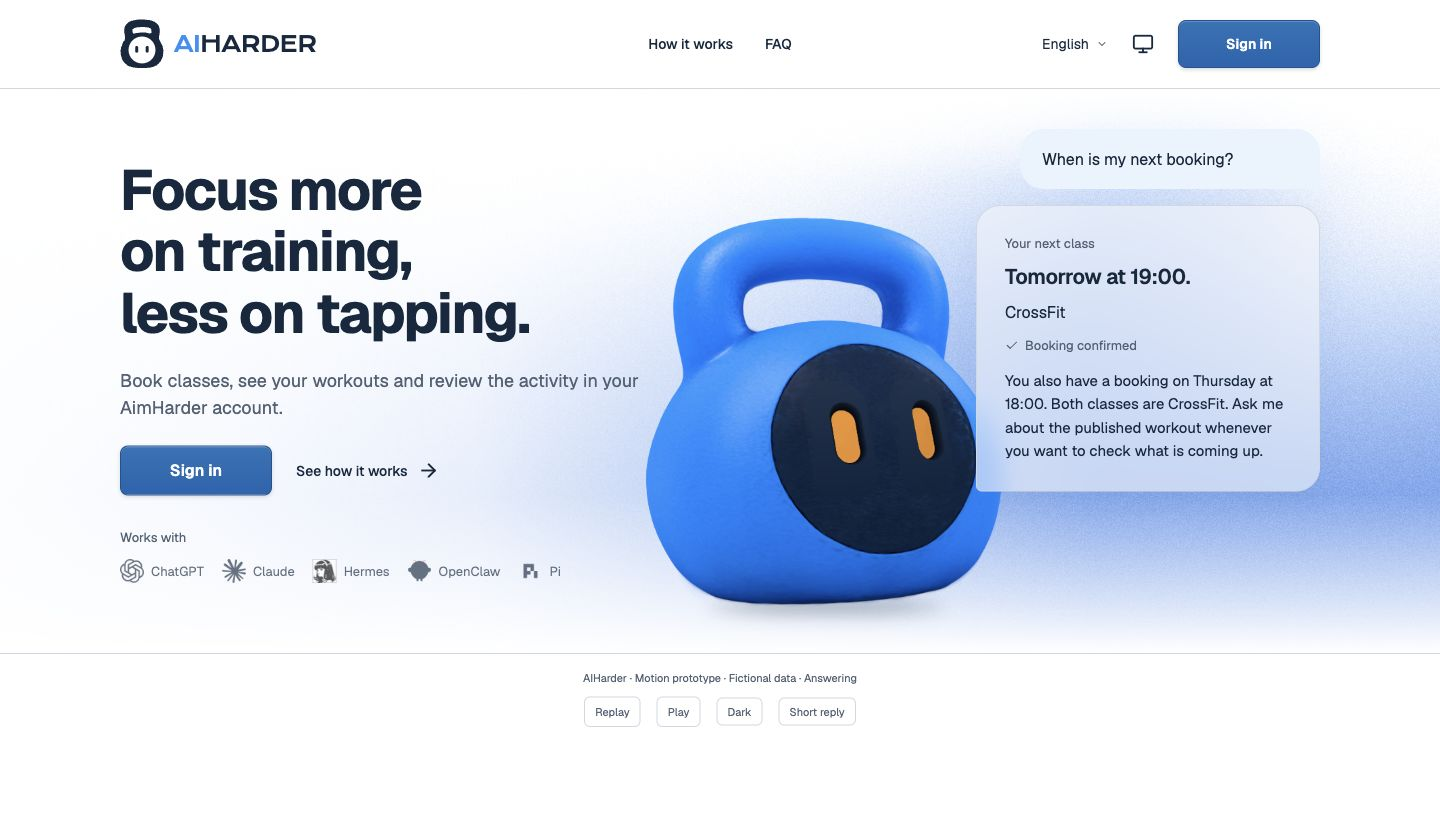
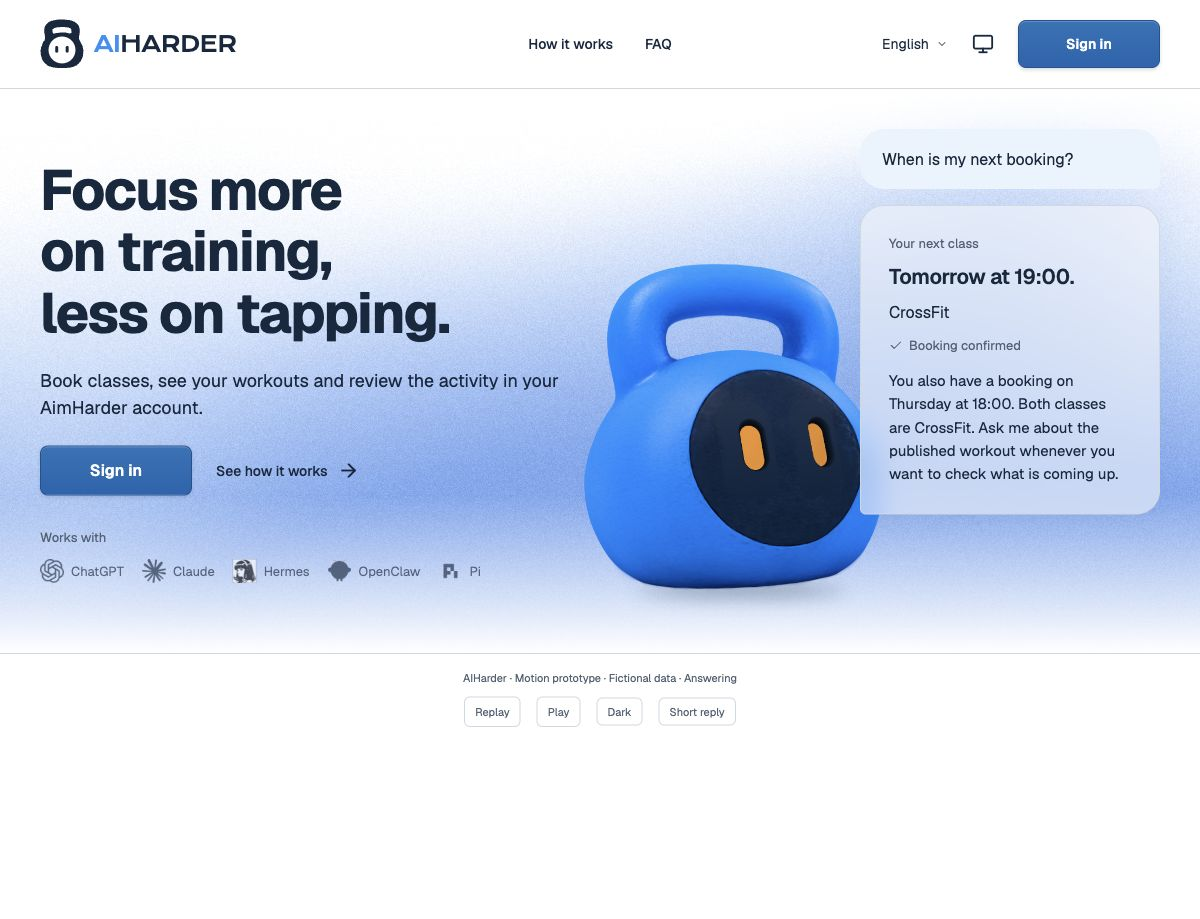
design: show Grainient across the full hero width

diff --git a/design/home-study/hero-motion-prototype.html b/design/home-study/hero-motion-prototype.html
@@ -6,4 +6,4 @@
 @media(max-width:1320px){.kettle{left:-60px;top:126px;width:300px;height:344px}.kettle img{width:435.13px;height:435.13px;left:-68px;top:-57.79px}.answer{width:300px}.ground{left:-8px;top:460px;width:210px}.ground::after{width:154px}}
 @media(max-width:1150px){.hero{grid-template-columns:46% 1fr;gap:40px}h1{font-size:50px}.brand{font-size:20px}.utilities{gap:16px}.nav{gap:24px}.question{width:270px}.answer{width:300px}.kettle{left:-70px}.apps{gap:12px}.app{font-size:12px;gap:5px}}
 @media(max-width:850px){.container{width:calc(100% - 40px)}.header-inner{grid-template-columns:1fr auto;min-height:80px}.nav{display:none}.utilities{gap:16px}.language{display:none}.hero{display:block;padding-top:28px}.pitch{max-width:532px}.scene{height:520px;margin:32px auto 0;max-width:596px}.kettle{left:0}.question{right:0}.answer{right:0}.apps{flex-wrap:wrap}h1{font-size:44px}.header-signin{min-width:100px;padding:12px 18px}.brand{font-size:17px}.brand img{width:35px;height:40px}}
[2 lines of base64/hex data omitted]

diff --git a/design/home-study/hero-graphic-still.html b/design/home-study/hero-graphic-still.html
@@ -6,4 +6,4 @@
 @media(max-width:1320px){.kettle{left:-60px;top:126px;width:300px;height:344px}.kettle img{width:435.13px;height:435.13px;left:-68px;top:-57.79px}.answer{width:300px}.ground{left:-8px;top:460px;width:210px}.ground::after{width:154px}}
 @media(max-width:1150px){.hero{grid-template-columns:46% 1fr;gap:40px}h1{font-size:50px}.brand{font-size:20px}.utilities{gap:16px}.nav{gap:24px}.question{width:270px}.answer{width:300px}.kettle{left:-70px}.apps{gap:12px}.app{font-size:12px;gap:5px}}
 @media(max-width:850px){.container{width:calc(100% - 40px)}.header-inner{grid-template-columns:1fr auto;min-height:80px}.nav{display:none}.utilities{gap:16px}.language{display:none}.hero{display:block;padding-top:28px}.pitch{max-width:532px}.scene{height:520px;margin:32px auto 0;max-width:596px}.kettle{left:0}.question{right:0}.answer{right:0}.apps{flex-wrap:wrap}h1{font-size:44px}.header-signin{min-width:100px;padding:12px 18px}.brand{font-size:17px}.brand img{width:35px;height:40px}}
[2 lines of base64/hex data omitted]

diff --git a/design/home-study/hero-surface-study.md b/design/home-study/hero-surface-study.md
@@ -9,7 +9,7 @@ The owner supplied a React Bits Grainient export and requested adapting it as th
 | Decision | Reference | Implementation |
 | --- | --- | --- |
 | Flowing blue/white grain | Owner's component export and [official Grainient](https://reactbits.dev/backgrounds/grainient) source | Adapt the supplied WebGL2 field/composite shaders to the existing HTML prototype, preserving the requested palette/settings without adding React dependencies. |
-| Text legibility | Existing AIHarder palette/type roles and the owner's hero | Apply a left-side background fade behind the pitch and top/bottom edge fades; retain readable foreground tokens. Dark uses the existing navy base with the same blue accent. |
+| Text legibility | Existing AIHarder palette/type roles and the owner's hero | Use the gradient across the complete hero width, including behind the pitch. Keep only top/bottom edge fades; retain readable foreground tokens. Dark uses the existing navy base with the same blue accent. |
 | Compact spacing | Owner's density request | Header minimum content height 120 → 88px; hero padding 72px top / 64px bottom → 32px each. The 1px header rule makes its measured total height 89px. Shared horizontal gutters stay aligned. |
 | Translucent reply | Owner's opacity request | Surface alpha 90% → 60% in both themes. Keep 12px backdrop blur, border, asymmetric corner and the established compact message stack. |
 | Flat header mark | Owner's explicit three-color construction, existing neutral kettle | Vectorize the existing alpha silhouette, including the handle hole. Use `#14283F`, a white face circle and navy rounded eyes. Dark adds a 0.5px-equivalent light keyline for separation while keeping those fills. |
@@ -21,7 +21,7 @@ The owner supplied a React Bits Grainient export and requested adapting it as th
 - [Flat SVG Light](assets/kettle-flat-light.svg) / [Dark](assets/kettle-flat-dark.svg), reproducible with [render-flat-mark.html](render-flat-mark.html). The exporter reads the unchanged neutral poster alpha at threshold 160, traces closed contours, simplifies at 1.4px and smooths the vector outline. No raster retouch, generated replacement mascot or manual silhouette drawing is used. Face/eye geometry is deliberately flat as requested.
 - [Background mount](hero-background-mount.js), [app-integrated renderer](grainient-background.js), [upstream notice/license](vendor/README.md).
 
-The requested values are retained: white / `#0065e0`, angle 180, flow 0.8, silk 0.5, grain 0.08, scale 1.4, grain size 1.3, saturation 0.99 and stir 0.95, with intro/click swirl disabled. Light mode is enabled only for Light; Dark uses `#0d1521` as its first color. Background layer opacity and foreground fades integrate these colors with the existing page instead of changing text/CTA roles.
+The requested values are retained: white / `#0065e0`, angle 180, flow 0.8, silk 0.5, grain 0.08, scale 1.4, grain size 1.3, saturation 0.99 and stir 0.95, with intro/click swirl disabled. Light mode is enabled only for Light; Dark uses `#0d1521` as its first color. Background layer opacity and vertical edge fades integrate these colors with the existing page instead of changing text/CTA roles.
 
 The background has one tracked render loop, stops when paused/hidden/offscreen, renders still for reduced motion or `motion=off`, caps DPR at 1, and limits scheduling to 30fps. These are implementation limits, not a measured device performance guarantee. The existing 3D/typing clock is unchanged. A CSS gradient remains when WebGL2 is unavailable; actual context-loss/device fallback was not exercised.
 
@@ -32,3 +32,9 @@ Inspected Light/Dark at 1440px and Light at 1200px; no horizontal overflow or co
 The existing pen file and native exports were modified before this turn and were preserved. These latest changes are HTML-only; no new pen sync is claimed. Other home variants, API behavior, authentication, deployment and npm dependencies are unchanged. The public-repository/MIT ADR was reviewed: project-authored server licensing and npm contents remain unchanged; the app-integrated third-party source retains its own notice. No new architecture/security/distribution decision or ADR is needed for this visual study.
 
 Review found and fixed incomplete initialization cleanup: missing WebGL or failed shader/program setup now removes the canvas and releases allocated resources so it cannot cover the CSS fallback. API-stub smoke checks exercised both failed initialization branches (all allocated shaders/programs released); these do not replace an actual GPU/context-loss exercise. Standards and Spec review have no residual actionable findings. JavaScript syntax, 57 asset hashes, vendor/capture hashes and local documentation links were checked. No production server test suite was run for this isolated design prototype.
+
+## Full-width background correction — 2026-11-01
+
+The owner requested that the gradient cover the whole hero instead of appearing only on the right. Removed the horizontal white/navy overlays in both HTML sources and themes; the same shader now remains visible behind the pitch, central character and message stack. Top/bottom boundary fades remain. The Light support copy uses the existing ink token to stay readable over the blue. No shader, motion timing, page geometry or native pen changes are involved.
+
+Verified the full-width correction visually in Light/Dark at 1200px. The background and hero each measured 1200px wide; computed overlays contain only the vertical fade and neither page overflows horizontally. The linked surface captures now show this correction. Earlier 1440px observations refer to the preceding surface revision. No ADR change is required for this visual correction.
